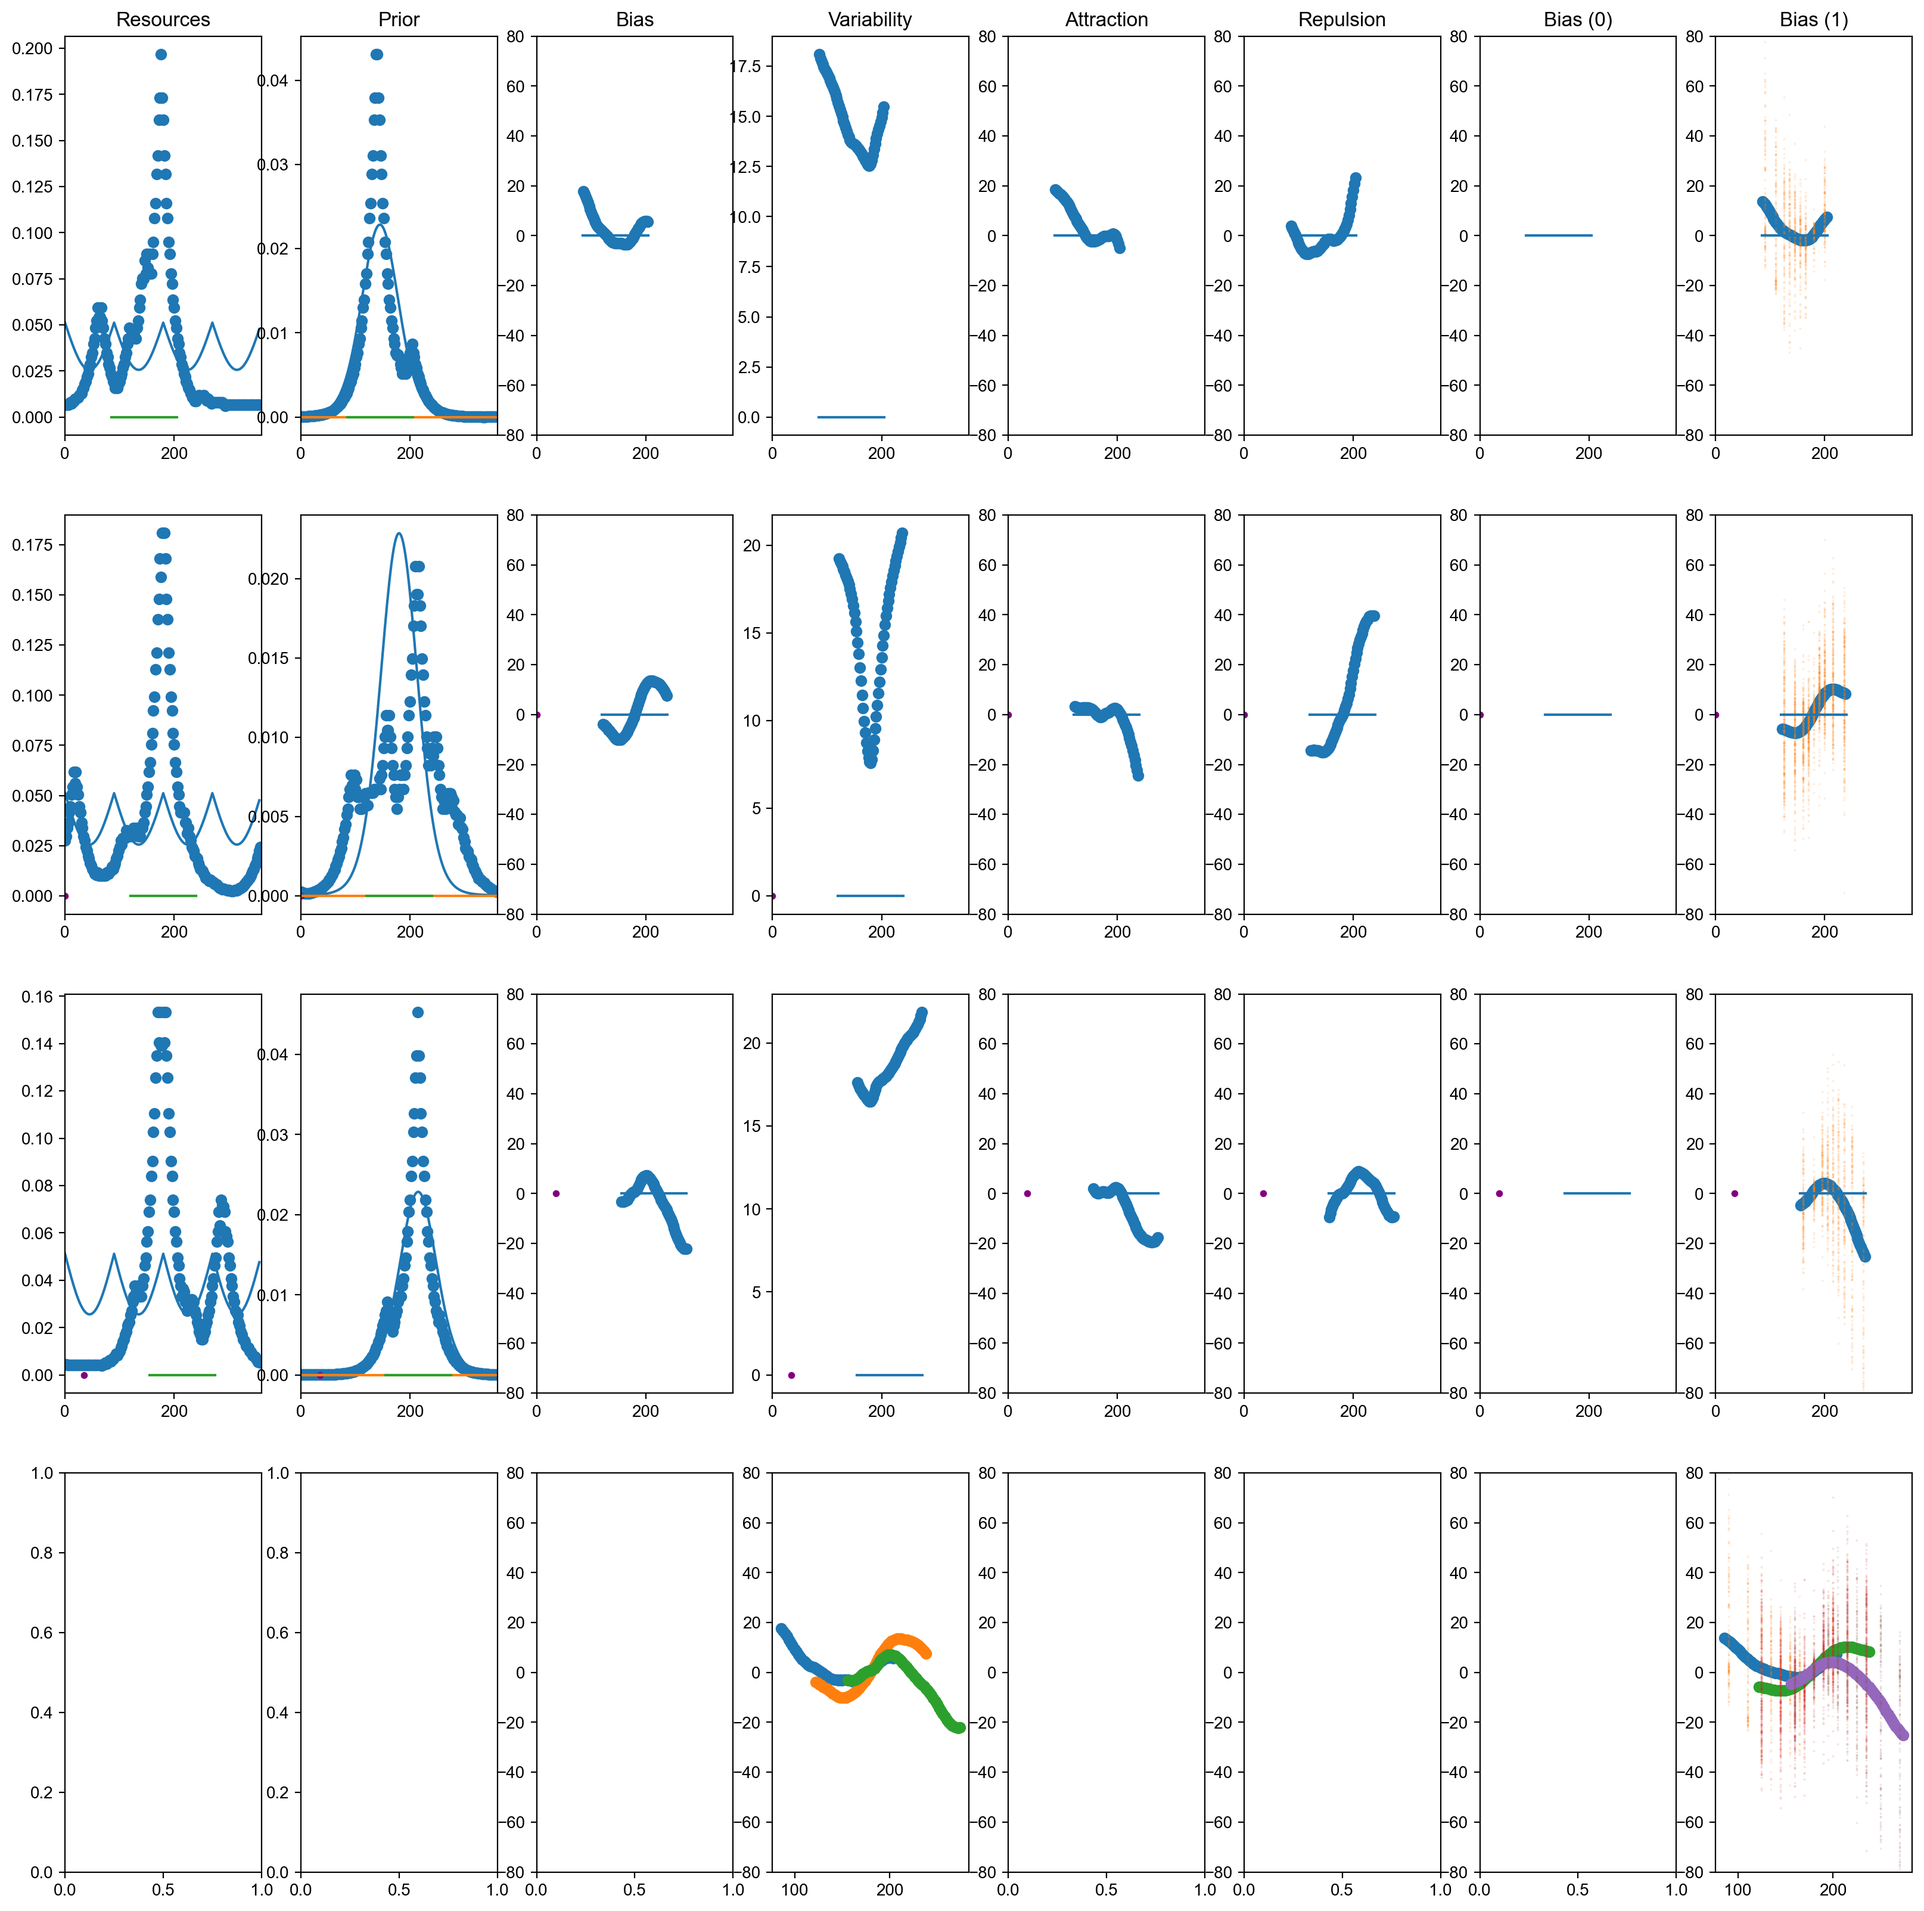
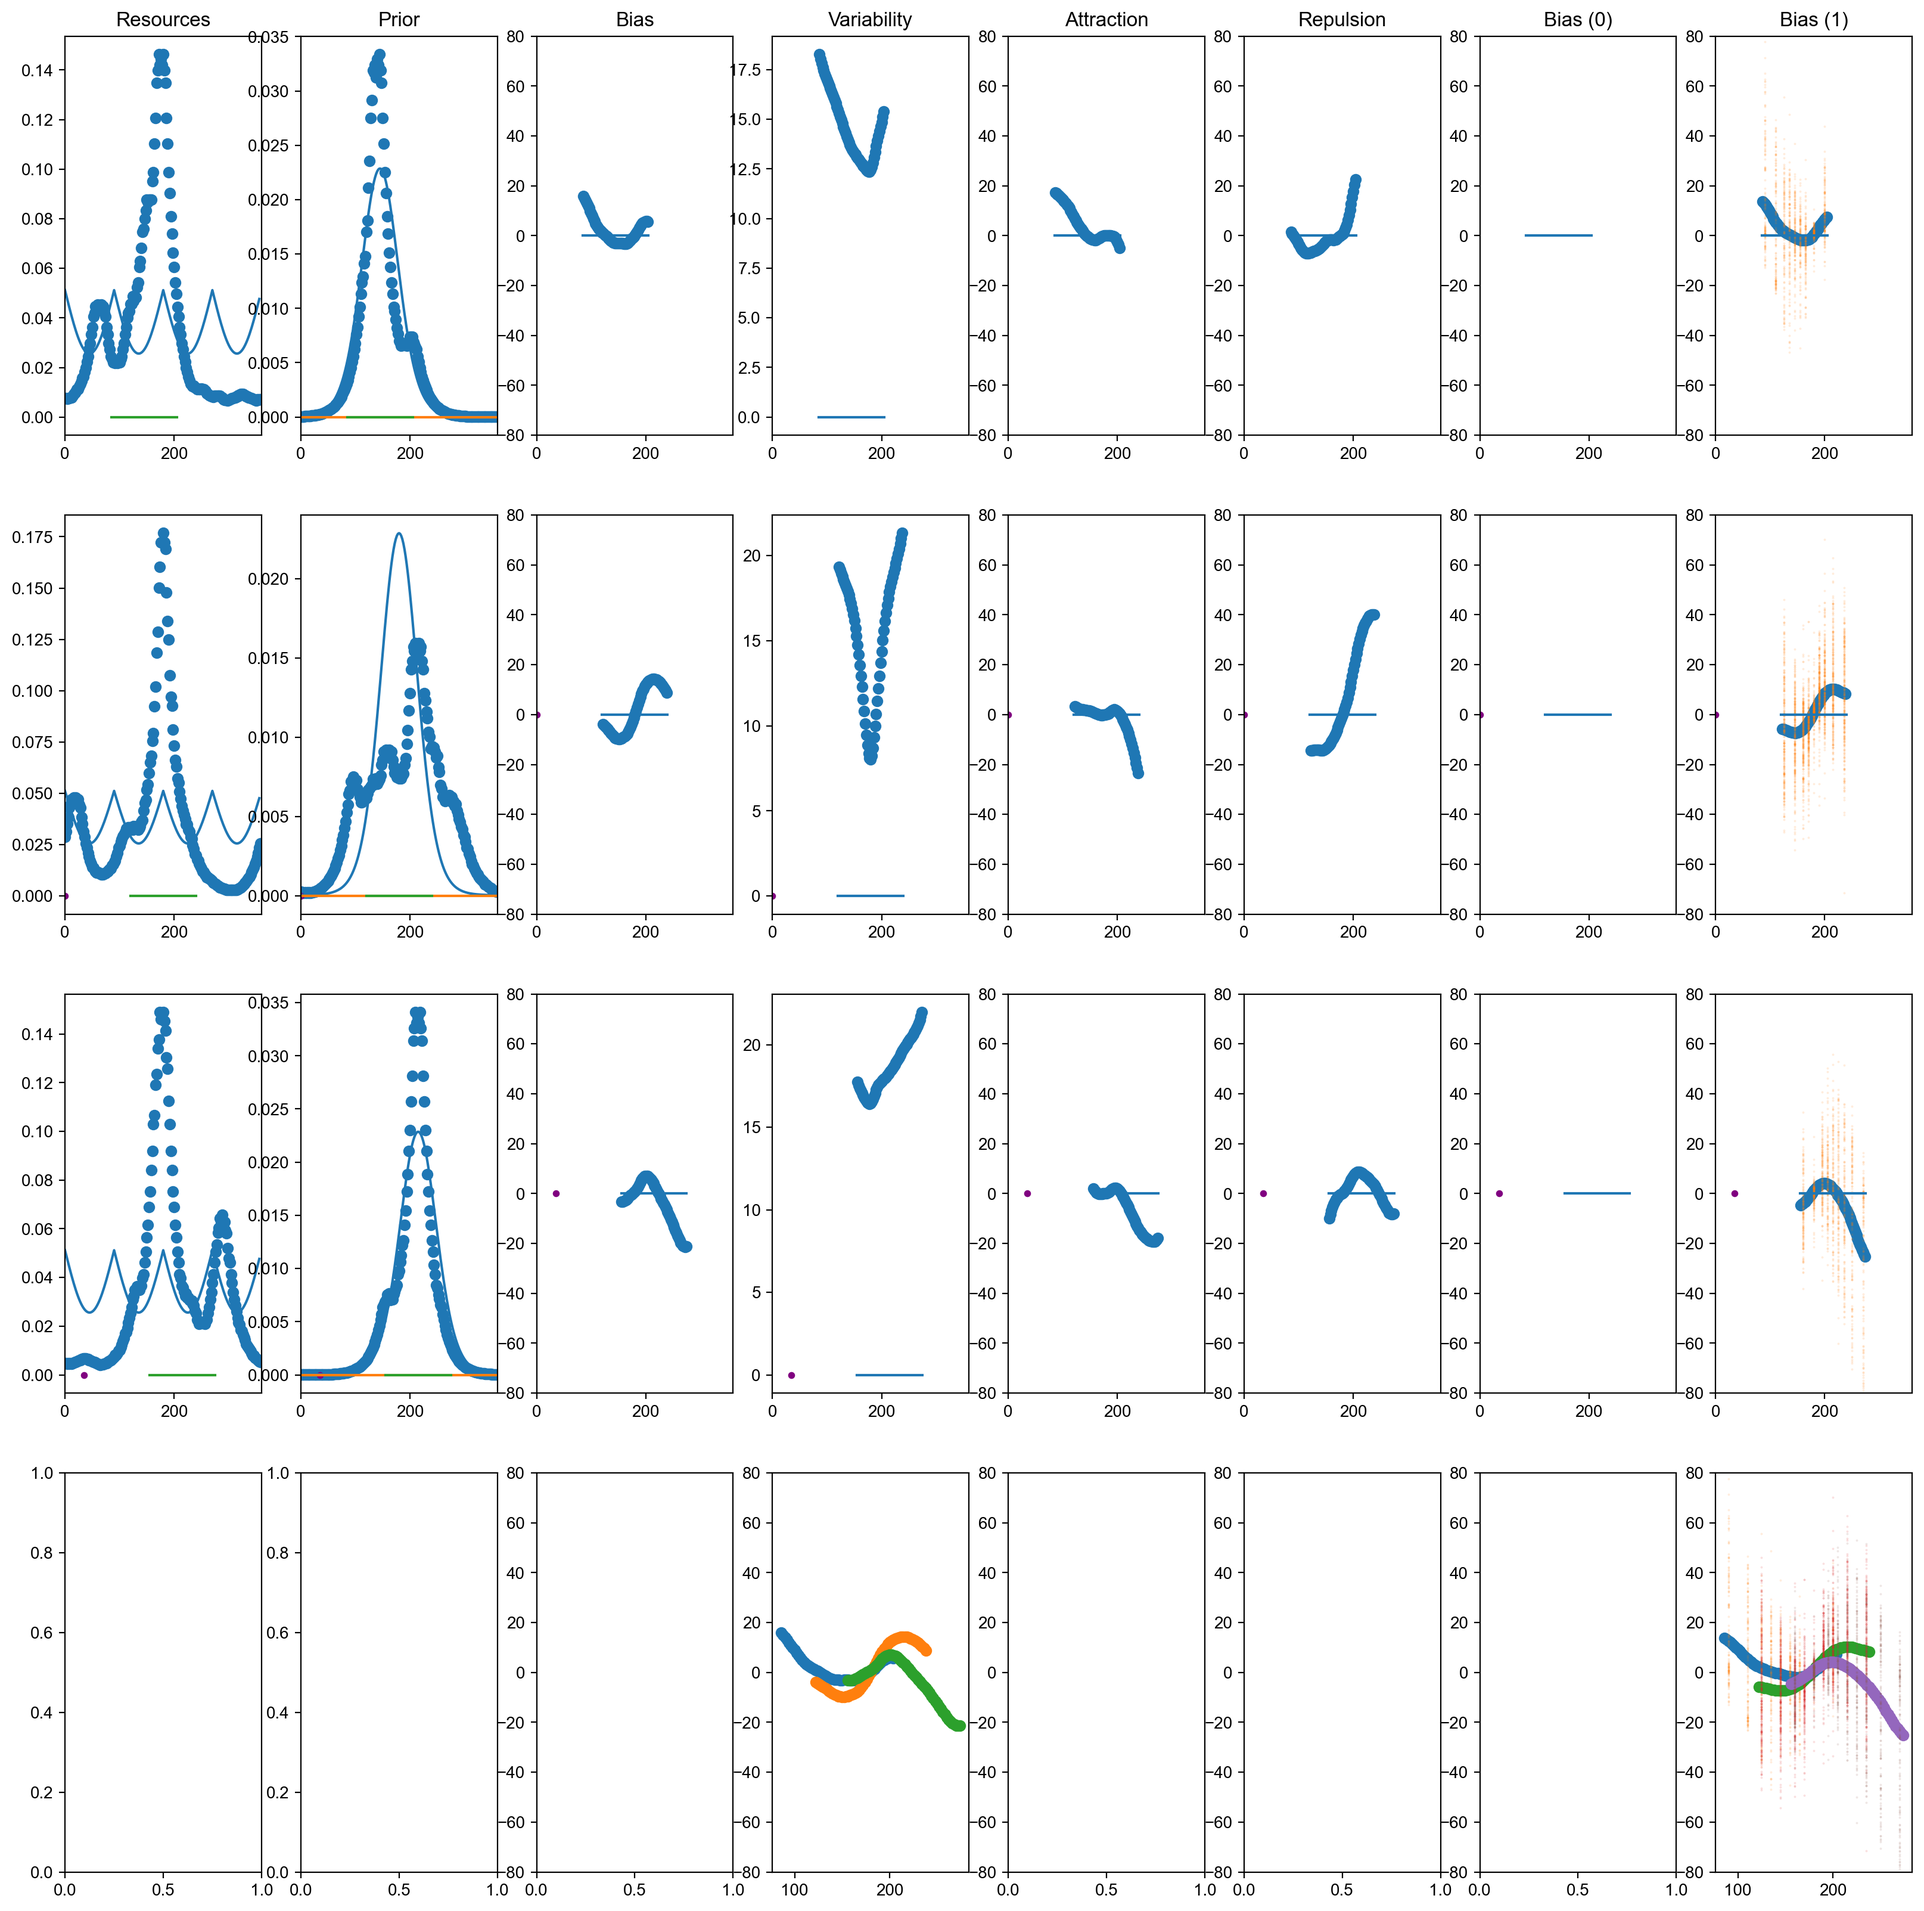
code

diff --git a/README.md b/README.md
@@ -26,7 +26,10 @@ Command:
 
     python3 RunReisenegger_FreePrior_DifFreeResources_byCentralOrientation_Simplified_Shift_Co1_Prior_SepEnc_Debug.py 2 0 10.0 180 50
   
-Fit: [figures/RunReisenegger_FreePrior_DifFreeResources_byCentralOrientation_Simplified_Shift_Co1_Prior_SepEnc_Debug.py_2_0_10.0_180_50.pdf](plot)
+Fit: ![Fit](figures/RunReisenegger_FreePrior_DifFreeResources_byCentralOrientation_Simplified_Shift_Co1_Prior_SepEnc_Debug.py_2_0_10.0_180_50.png)
+
+PDF link: [here](figures/RunReisenegger_FreePrior_DifFreeResources_byCentralOrientation_Simplified_Shift_Co1_Prior_SepEnc_Debug.py_2_0_10.0_180_50.pdf)
+
 
 Goodness of fit: [losses/RunReisenegger_FreePrior_DifFreeResources_byCentralOrientation_Simplified_Shift_Co1_Prior_SepEnc_Debug.py_2_0_10.0_180.txt](file)
 
